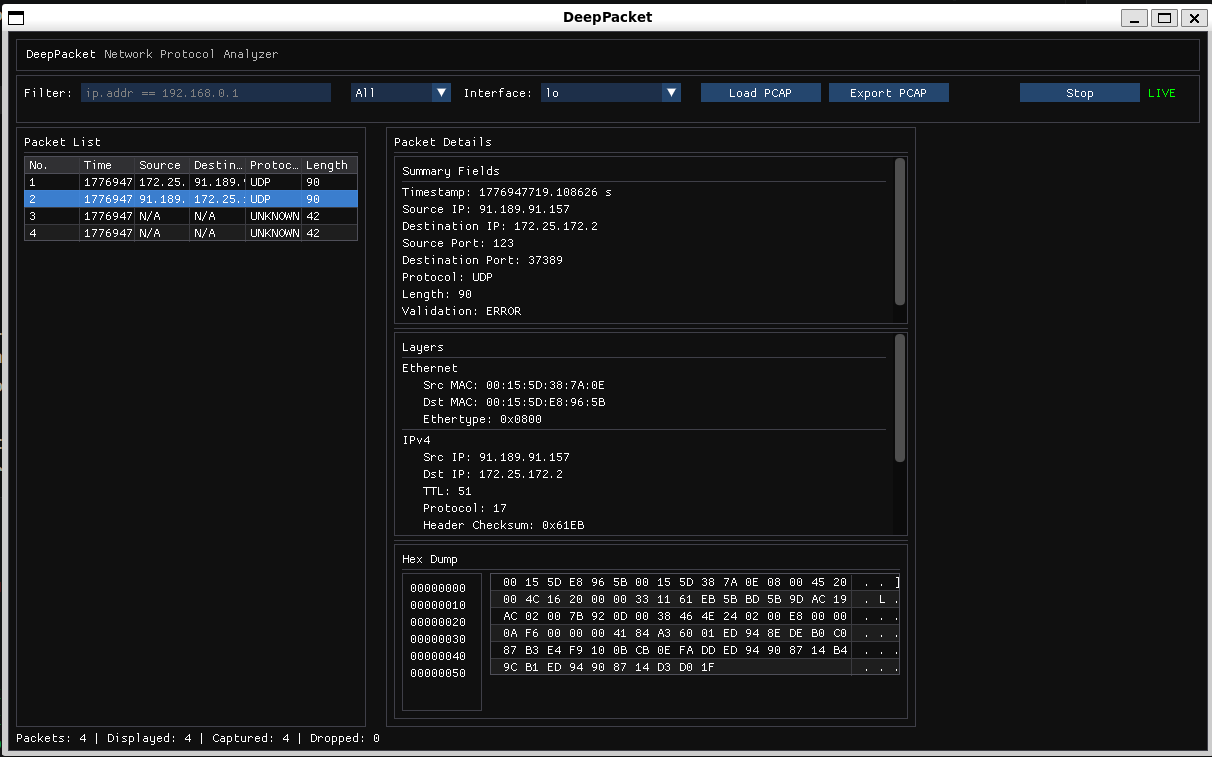
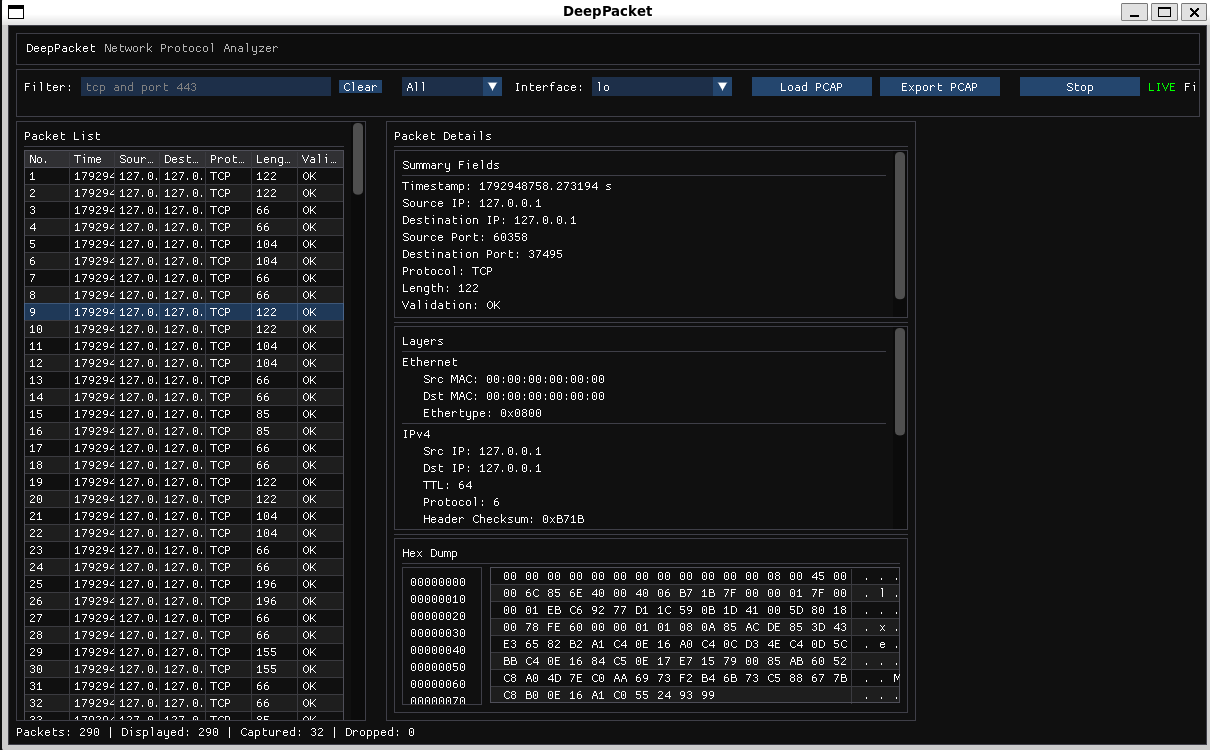
discovered and fixed race on socket close when running UI

Changed region(s): [[0.0, 0.0, 1.0, 1.0]]

diff --git a/dp/capture/raw-capture.cpp b/dp/capture/raw-capture.cpp
@@ -74,14 +74,15 @@ SocketCapture::SocketCapture(const std::string& interface_name, const std::strin
 // Destructor
 SocketCapture::~SocketCapture() {
     running = false;
-    // unblocking recvfrom() by closing socket
-    if(sock >= 0){
-        close(sock);
-    }
-    
+
     if(capture_thread.joinable()) {
         capture_thread.join();
-    }    
+    }
+
+    if(sock >= 0){
+        close(sock);
+        sock = -1;
+    }
 }
 
 // If returned  value < 0, then socket creation failed

diff --git a/README.md b/README.md
@@ -278,7 +278,7 @@ https://creativecommons.org/licenses/by-nc-nd/4.0/legalcode
 ## Notes
 
 * DeepPacket is still under active development and may be worked on every now and then.
-* The UI filter box configures the native live-capture BPF filter.
+* The timestamps for live-capture are wrong, I never bothered to correct it.
 * Capture filters apply only to live Linux `AF_PACKET` capture, not to
   already-loaded PCAP summaries.
 * Interface auto-detection is implemented, but fallback defaults to default value of `enp0s3` if unavailable.
